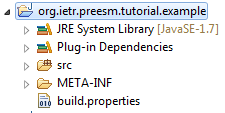
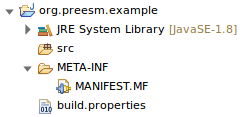
Update tutos according to new names and workflows

diff --git a/assets/docs/03-newtask-assets/ExampleTask.java b/assets/docs/03-newtask-assets/ExampleTask.java
@@ -1,45 +1,43 @@
-package org.ietr.preesm.tutorial.example;
+package org.preesm.example;
 
+import java.util.HashMap;
 import java.util.LinkedHashMap;
 import java.util.Map;
 import java.util.logging.Level;
 import java.util.logging.Logger;
 import org.eclipse.core.runtime.IProgressMonitor;
 import org.preesm.algorithm.model.parameters.InvalidExpressionException;
-import org.preesm.algorithm.model.sdf.SDFEdge;
-import org.preesm.algorithm.model.sdf.SDFGraph;
-import org.preesm.algorithm.model.types.LongEdgePropertyType;
 import org.preesm.commons.logger.PreesmLogger;
+import org.preesm.model.pisdf.DataInputPort;
+import org.preesm.model.pisdf.DataOutputPort;
+import org.preesm.model.pisdf.Expression;
+import org.preesm.model.pisdf.Fifo;
+import org.preesm.model.pisdf.PiGraph;
 import org.preesm.workflow.WorkflowException;
 import org.preesm.workflow.elements.Workflow;
 import org.preesm.workflow.implement.AbstractTaskImplementation;
 
 /**
- * {@link ExampleTask} is an dummy workflow task that multiply all the production and consumption rates of a
- * {@link SDFGraph} by a factor given as a parameter to the task.
- *
- * @author kdesnos
- *
+ * Example task. Multiplies the rates of all ports by a factor given as task parameter. Use a default factor of 1.
  */
 public class ExampleTask extends AbstractTaskImplementation {
 
   @Override
   public Map<String, Object> execute(final Map<String, Object> inputs, final Map<String, String> parameters,
-      final IProgressMonitor monitor, final String nodeName, final Workflow workflow) throws WorkflowException {
+      final IProgressMonitor monitor, final String nodeName, final Workflow workflow) {
 
-    // The logger is used to display messages in the console
-    // Message can have different colors depending of their severity.
-    // The severity of a message is set when calling logger.log()
+    // The logger is used to display messages in the console.
+    // Messages can have different colors depending of their severity.
+    // The severity of a message is set when calling logger.log(Level, String)
     final Logger logger = PreesmLogger.getLogger();
 
     // Retrieve the task parameter
     final String paramString = parameters.get("factor");
-    int factor;
+    long factor;
     try {
-      factor = (paramString != null) ? Integer.decode(paramString) : 1;
+      factor = (paramString != null) ? Long.decode(paramString) : 1;
     } catch (final NumberFormatException e) {
-      final String message = "Factor parameter of task " + nodeName + " is not an integer.";
-      logger.log(Level.SEVERE, message);
+      final String message = "Factor parameter '" + paramString + "' of task '" + nodeName + "' is not an integer.";
       throw new WorkflowException(message);
     }
 
@@ -50,41 +48,47 @@ public class ExampleTask extends AbstractTaskImplementation {
     }
 
     // Retrieve the task input
-    final SDFGraph algo = (SDFGraph) inputs.get("SDF");
+    final PiGraph algo = (PiGraph) inputs.get("PiMM");
 
-    // Do the work: Multiply all production/consumption rates of the graph
-    // with the factor.
+    // Do the work: Multiply all production/consumption rates of the graph with the factor.
     // NB. A proper implementation should use the Visitor design pattern
-    for (final SDFEdge edge : algo.edgeSet()) {
+    for (final Fifo fifo : algo.getFifos()) {
+
+      final DataInputPort targetPort = fifo.getTargetPort();
+      final DataOutputPort sourcePort = fifo.getSourcePort();
+
+      final Expression targetRateExpr = targetPort.getPortRateExpression();
+      final Expression sourceRateExpr = sourcePort.getPortRateExpression();
 
       // Retrieve the production/consumption rates
       long prod = 0;
       long cons = 0;
       try {
-        prod = edge.getProd().longValue();
-        cons = edge.getCons().longValue();
+        prod = sourceRateExpr.evaluate();
+        cons = targetRateExpr.evaluate();
       } catch (final InvalidExpressionException e) {
-        e.printStackTrace();
+        throw new WorkflowException("Could not evaluate rates. Make sure your input algorithm is static.");
       }
 
+      targetPort.setExpression(prod * factor);
+      sourcePort.setExpression(cons * factor);
       // Set with the new values
-      edge.setProd(new LongEdgePropertyType(prod * factor));
-      edge.setCons(new LongEdgePropertyType(cons * factor));
     }
 
     // Display a message in the console
-    logger.log(Level.INFO, algo.edgeSet().size() + " edges were treated.");
+    final String message = algo.getFifos().size() + " Fifos were treated.";
+    logger.log(Level.INFO, message);
 
     // Put the resulting graph in the output map
     final Map<String, Object> outputs = new LinkedHashMap<>();
-    outputs.put("SDF", algo);
+    outputs.put("PiMM", algo);
 
     return outputs;
   }
 
   @Override
   public Map<String, String> getDefaultParameters() {
-    final Map<String, String> defaultParams = new LinkedHashMap<>();
+    final Map<String, String> defaultParams = new HashMap<>();
     defaultParams.put("factor", "1");
     return defaultParams;
   }
@@ -93,4 +97,5 @@ public class ExampleTask extends AbstractTaskImplementation {
   public String monitorMessage() {
     return "Starting Execution of Example Task ";
   }
+
 }

diff --git a/_docs/03-newtask.md b/_docs/03-newtask.md
@@ -9,14 +9,15 @@ Before proceeding you need to do: [Building Preesm](/docs/buildpreesm) and [Tuto
 Note that the two Eclipse installation asked for these two tutorials are different, you should use in the following the Preesm developer installation from [Building Preesm](/docs/buildpreesm).
 
 ###### Tutorial created the 12.10.2012 by [K. Desnos](mailto:kdesnos@insa-rennes.fr)
+Updated 21.11.2018 by [A. Morvan](mailto:anmorvan@insa-rennes.fr)
 
 ## What is a Workflow Task?
 
 A workflow is an executable graph that applies transformations to models (architecture, algorithm, ...). For example, the following workflow which is used in [Tutorial Introduction](/tutos/intro), is designed to map and schedule an algorithm on an architecture, both defined in the executed scenario, and to generate the corresponding source code.
 
-![](/assets/docs/03-newtask-assets/workflow-example.png)
+[![](/assets/docs/03-newtask-assets/workflow-example.png)](/assets/docs/03-newtask-assets/workflow-example.png)
 
-Within the workflow graph, each "vertex" - or "workflow task" - performs a specific action on one or several inputs. For example, the "HierarchyFlattening" workflow element takes as input an algorithm modeled with a hierarchical graph and outputs a flattened version of this graph.
+Within the workflow graph, each "vertex" - or "workflow task" - performs a specific action on one or several inputs. For example, the "PiMM2SrDAG" workflow element takes as input an algorithm modeled as a PiSDF graph and outputs DAG version, where flattening and single rate transformations have been applied.
 
 ## How to create your own Workflow Task
 
@@ -24,7 +25,7 @@ In the remainder of this tutorial, we will create a new dummy workflow task whos
 
 ### Creation and configuration of a new eclipse plugin
 
-The Eclipse IDE integrates a powerful plugin mechanism that allows the seamless integration of new functionalities to the IDE. For example, Graphiti, DFTools, and Preesm each consist of a set of Eclipse plugins. Consequently, the easiest way to add new features to Preesm is to create your own plugin. To create a new plugin, in the Eclipse instance where the [Building Preesm](/docs/buildpreesm) tutorial was done:
+The Eclipse IDE integrates a powerful plugin mechanism that allows the seamless integration of new functionalities to the IDE. For example, Graphiti and Preesm each consist of a set of Eclipse plugins. Consequently, the easiest way to add new features to Preesm is to create your own plugin. To create a new plugin, in the Eclipse instance where the [Building Preesm](/docs/buildpreesm) tutorial was done:
 
 1.  Right-click in the package explorer and select "New->Other...".
 2.  In the wizard, select "Plug-in Project" and click Next.
@@ -35,7 +36,8 @@ The Eclipse IDE integrates a powerful plugin mechanism that allows the seamless 
     *   uncheck the "UI contribution" box;
     *   if you plan to have special actions during the plug-in start/stop phases, check the "generate an activator..." box (see [example here](http://www.vogella.com/tutorials/OSGi/article.html#tutorial-using-the-activator-and-exporting-your-bundle));
     *   click Next;
-7.  Uncheck the "Create a plug-in using..." box and click on Finish.
+7.  Uncheck the "Create a plug-in using..." box and click on Finish;
+8. Do not enter the perspective (and remember choice).
 
 The following project appears in your Package Explorer:
 
@@ -44,16 +46,17 @@ The following project appears in your Package Explorer:
 Before creating a new workflow task, you must first configure the dependencies of the plugin project:
 
 1.  Open “META-INF/MANIFEST.MF” with the plugin manifest editor.
-2.  In the “Dependencies” tab, click on the “Add” button of the “required Plug-ins” frame.
-3.  Select the “org.ietr.dftools.workflow” plugin and click OK.
-4.  In the “Properties” of the added plugin, empty the “Minimum Version” field.
+2.  In the Overview tab, mark your plugin as a Singleton:
+    ![](/assets/docs/03-newtask-assets/singleton.png)
+3.  In the “Dependencies” tab, click on the “Add” button of the “required Plug-ins” frame.
+4.  Select the “org.preesm.workflow” plugin and click OK (version may differ):
+    ![](/assets/docs/03-newtask-assets/add_dep.png)
 5.  Save the modification of MANIFEST.MF.
 
-To complete the plugin configuration, repeat steps 2 to 5 and add the following plugins to the list:
+To complete the plugin configuration, repeat steps 3 to 5 and add the following plugins to the list:
 
-*   org.ietr.dftools.algorithm
-*   org.jgrapht.core
 *   org.eclipse.core.runtime
+*   org.preesm.algorithm
 
 ### Creation of a new workflow task
 
@@ -61,9 +64,7 @@ The next step consists of creating the class that will implement the behavior of
 
 1.  In the package Explorer, right-click on the plugin project and select “New->Class”
 2.  Give a name the class and make it inherit from “AbstractTaskImplementation”.
-
-![](/assets/docs/03-newtask-assets/screenshot_task_1.png)
-
+    ![](/assets/docs/03-newtask-assets/screenshot_task_1.png)
 3.  Click on Finish. The new class file will automatically open.
 
 ### Implementation of the new workflow task
@@ -72,7 +73,7 @@ The **monitorMessage()** method returns a message that will be displayed in the 
 
 ```java
 public  String  monitorMessage()  {  
-   return  "Starting Execution of Example Task ";  
+  return  "Starting Execution of Example Task ";  
 }
 ```
 
@@ -94,23 +95,27 @@ The **execute(...)** method is called when the workflow task is executed. Its in
 *   A String containing the name given to the instance of the workflow task
 *   The Workflow where the workflow task is instantiated
 
-The code of the execute method for our example is [available here](/assets/docs/03-newtask-assets/exampletask.java).
+The code of the execute method for our example is [available here](/assets/docs/03-newtask-assets/ExampleTask.java).
 
 ### Registration of the new workflow task
 
-Before being executed, the new workflow task must first be registered as an extension of org.ietr.dftools.workflow.tasks. To do that:
+Before being executed, the new workflow task must first be registered as an extension of org.preesm.workflow.tasks. To do that:
 
 1.  Open the MANIFEST.MF file of your plugin and go to the "Extensions" tab.
 2.  Click on "Add..." to open the "New Extension" Wizard.
 3.  Select "org.ietr.dftools.workflow.tasks" and click "Finish".
-4.  Fill the "Extension Element Details" as follows and save (field ```id``` will be used in the workflow later on):
-![](/assets/docs/03-newtask-assets/screenshot_task_2.png)
+    ![](/assets/docs/03-newtask-assets/new_extension.png)
+4.  Fill the "Extension Element Details":
+    *   Browse or just copy the fully qualified name of the class you just created to fill the "type" field.
+    *   Give a identifier to the workflow task in the "id" field. This identifier will be used to lookup the task in the workflow editor/executor.
+    *   The name is optional and can be left empty.
+    ![](/assets/docs/03-newtask-assets/screenshot_task_2.png)
 5.  Right-click on your extension name in the extension list and select "New->inputs"
 6.  Right-click on "(inputs)" and select "New->input"
 7.  Fill the "Extension Element Details" of the input as follows:
-![](/assets/docs/03-newtask-assets/screenshot_task_3.png)
-8.  Save and repeat steps 5 to 7 to add an output "SDF" to your workflow task. The extensions list should look like this:
-![](/assets/docs/03-newtask-assets/screenshot_task_4.png)
+    ![](/assets/docs/03-newtask-assets/screenshot_task_3.png)
+8.  Save and repeat steps 5 to 7 to add an output "PiMM" to your workflow task. The extensions list should look like this:
+    ![](/assets/docs/03-newtask-assets/screenshot_task_4.png)
 
 **Note:** In the extension details of step 4, the field ```id``` is what makes the link with the tasks defined in the Workflows (see step 6 of next section).
 
@@ -132,10 +137,11 @@ Finally, the package containing the workflow task must be exported by the plugin
 ![](/assets/docs/03-newtask-assets/screenshot_task_5.png)
 7.  Save and go to the "Task Variables" properties of the workflow task. The "factor" parameter should appear. (If not, go back to the Preesm project, clean, rebuild and launch).
 8.  Set the value of the "factor" parameter.
-9.  Connect the task in the workflow. For example, insert it between the "srSDF" and the "LIST scheduler" tasks. To add a new connection, select "Data transfers" in the editor Palette and successively click on the source and target of the connection.
+9.  Connect the task in the workflow. For example, insert it between the "scenario" and the "PiMM2SrDAG" tasks. To add a new connection, select "Data transfers" in the editor Palette and successively click on the source and target of the connection. Make sure to give the proper names to input and outputs.
 ![](/assets/docs/03-newtask-assets/screenshot_task_6.png)
-10.  Save the workflow and execute it as explained in [introductory tutorial](/tutos/intro/).
+10.  Save the workflow and execute it as explained in [introductory tutorial](/tutos/intro/). The logger should display the lines in the early stages:
+![](/assets/docs/03-newtask-assets/screenshot_task_7.png)
 
 You can now do a few tests with the new workflow task. For example, try changing the factor parameter into a negative number or a string of characters. You can also put breakpoints in the code of the task to follow its execution step-by-step.
 
-The complete plugin project built along this tutorial is [available here](/assets/docs/03-newtask-assets/org.ietr.preesm.tutorial.example.zip).
+The complete plugin project built along this tutorial is [available here](/assets/docs/03-newtask-assets/org.preesm.example.zip).

diff --git a/_docs/x02-buildfromgraphiti-dftools.md b/_docs/x02-buildfromgraphiti-dftools.md
@@ -4,40 +4,24 @@ permalink: /docs/buildfromgraphiti-dftools/
 toc: true
 ---
 
-_We discourage development within DFTools and Graphiti. These projects will eventually be removed._
+**As of Preesm v3.0.0, DFTools code base has been merged in Preesm git repository.**
 
-Since version 2.2.6 of Preesm, Graphiti and DFTools are dependencies resolved using the update site mechanism of Eclipse. Therefore the source code does not need to be present in the workspace. Nonetheless, it is still possible to setup an Eclipse to work with Graphiti and/or DFTools source code.
+_We discourage development within Graphiti. This project will eventually be removed._
 
-The new Eclipse setup procedure is based on an Eclise feature that references other features. Indeed, the feature "PREESM  Developper Requirements (Meta Feature)" references Graphiti, DFTools, Xtend, GEF, etc. The Graphiti and DFTools projects have received the same update in their build and deployment process. Therefore, configuring Eclipse for DFTools or Graphiti is similar to Preesm.
+Since version 2.2.6 of Preesm, Graphiti is a dependency resolved using the update site mechanism of Eclipse. Therefore the source code does not need to be present in the workspace. Nonetheless, it is still possible to setup an Eclipse to work with Graphiti source code.
 
-## Note about importing Releng projects
-
-When importing the source code of Graphiti, DFTools and Preems including the projects under 'releng', you may encounter warnings in the workspace:
-
-![](/assets/docs/x02-buildfromgraphiti-dftools-assets/feature_not_resolved.png)
-
-This denotes the absence of some feature in the current Eclipse installation. It comes from the updated build process that automatically generates these '.source' features during the deployment phase. These warning should not be fixed. If you do not intend to change the release process, it is best to close or remove from the workspace all projects under 'releng' (that includes "*.complete.site", "*.feature", "*.product", "*.releng").
+The new Eclipse setup procedure is based on an Eclise feature that references other features. Indeed, the feature "PREESM  Developper Requirements (Meta Feature)" references Graphiti, Xtend, GEF, etc. The Graphiti project have received the same update in their build and deployment process. Therefore, configuring Eclipse for Graphiti is similar to Preesm.
 
 ## Preesm source only
 
-Follow the [Building Preesm](/docs/buildpreesm) procedure
+Follow the [Building Preesm](/docs/buildpreesm) procedure.
 
-## DFTools + Preesm source
+## Graphiti + Preesm source
 
-Follow the [same procedure](/docs/buildpreesm), but instead of installing the "PREESM  Developper Requirements (Meta Feature)", select the DFTools one. Note that having several of these meta features installed at the same time can cause conflicts.
+Follow the [same procedure](/docs/buildpreesm), but instead of installing the "PREESM  Developper Requirements (Meta Feature)", select the Graphiti one (and only this one: having several of these meta features installed at the same time can cause conflicts).
 
-In addition to the Preesm git repository, clone the [DFTools git repository](https://github.com/preesm/dftools) from
-* [https://github.com/preesm/dftools.git](https://github.com/preesm/dftools.git) (https)
-* **or** ```git@github.com:preesm/dftools.git``` (SSH)
-
-Then, import DFTools **and** Preesm source code using Import as Existing Maven Projects, as detailed in the [Preesm procedure](/docs/buildpreesm).
-
-## Graphiti + DFTools + Preesm source
-
-Follow the [same procedure](/docs/buildpreesm), but instead of installing the "PREESM  Developper Requirements (Meta Feature)", select the Graphiti one. Note that having several of these meta features installed at the same time can cause conflicts.
-
-In addition to the Preesm git repository, clone the [DFTools git repository](https://github.com/preesm/dftools) (see above) **and** the [Graphiti git repository](https://github.com/preesm/graphiti) from:
+In addition to the Preesm git repository, clone the [Graphiti git repository](https://github.com/preesm/graphiti) from:
 * [https://github.com/preesm/graphiti.git](https://github.com/preesm/graphiti.git) (https)
 * **or** ```git@github.com:preesm/graphiti.git``` (SSH)
 
-Then, import projects from all 3 repositories (Graphiti, DFTools and Preesm) using Import as Existing Maven Projects, as detailed in the [Preesm procedure](/docs/buildpreesm).
+Then, import projects from the 2 repositories (Graphiti and Preesm) using Import as Existing Maven Projects, as detailed in the [Preesm procedure](/docs/buildpreesm).

diff --git a/_docs/02-buildpreesm.md b/_docs/02-buildpreesm.md
@@ -6,10 +6,10 @@ toc: true
 
 Prerequisite: [Install and Configure git](/docs/gitsetup)
 
-Note: if you need to work with Graphiti and/or DFTools source code, please read [these instructions](/docs/buildfromgraphiti-dftools/) first.
+Note: if you need to work with Graphiti source code, please read [these instructions](/docs/buildfromgraphiti-dftools/) first.
 
 ###### Tutorial created the 04.24.2012 by [M. Pelcat](mailto:mpelcat@insa-rennes.fr)  
-Updated the 04.19.2017 by [A. Morvan](mailto:antoine.morvan@insa-rennes.fr)
+Updated the 21.11.2018 by [A. Morvan](mailto:antoine.morvan@insa-rennes.fr)
 
 ## Disclaimers
 
@@ -46,19 +46,15 @@ sudo update-java-alternatives -l
 sudo update-java-alternatives -s java-1.8.0-openjdk-amd64
 ```
 
-### Ensure UTF8 text file encoding
-
-In Eclipse, go to: Window > Preference > General > Workspace > Text file encoding and choose UTF-8.
-
-At that stage, you may install Preesm from the [update site](http://preesm.insa-rennes.fr/website/index.php?id=tutorials) to use Preesm or install its [sources](http://preesm.insa-rennes.fr/website/index.php?id=developer) to program in Preesm.
-
-
 ### Install Development Requirements
+
+In Eclipse:
 
 1.  Go to "Help > Install New Software...";
 2.  In "work with:", add a new location named "Preesm" with location "http://preesm.insa-rennes.fr/repo/complete/"
 3.  Select the "Developper Resources > **PREESM  Developper Requirements (Meta Feature)**"
-    (this Eclipse feature contains all requirements for developping Preesm)
+    (this Eclipse feature contains all requirements for developping Preesm):
+    ![](/assets/docs/02-buildingpreesm/dev_feature.png)
 4.  Click Next twice, agree on the terms of the license, and click on Finish to install the features. This step will take a few minutes.
 5.  During the installation process, a security warning for unsigned content will appear. Click on OK to continue the installation.
 6.  Restart eclipse to complete the installation.
@@ -85,7 +81,8 @@ The PREESM plugins are plain Maven projects. In order to import them in Eclipse,
 *   In the Java perspetive, click on File > Import... then Maven > Existing Maven Projects;
 *   In the next window, browse to the git repository location (the Preesm root folder);
 *   The project import wizard should automatically find all the projects;
-    *   Note : releng/* projects are for Release Engineering, and can be omitted.
+    *   Note : releng/* projects are for Release Engineering, and can be omitted.:
+        ![](/assets/docs/02-buildingpreesm/unselect-releng.png)
 *   Click on finish.
 
 ## Compilation of Preesm
@@ -99,6 +96,8 @@ If there still are errors after applying the previous operations, try again to c
 ## Execution of Preesm
 
 In the Java or 'Plug-in Development' perspective, right-click on the 'org.ietr.preesm.ui' plug-in, the click on Debug As > Eclipse Application. A new Eclipse session is launched that behaves like the one obtained by Preesm users from the update site. The difference is that you can debug and modify code in the first Eclipse and test at the same time in the second Eclipse. You can see the tutorials to learn how to use the second Eclipse, import Preesm projects and test.
+
+![](/assets/docs/02-buildingpreesm/debug_ui.png)
 
 ## Coding Policies
 
